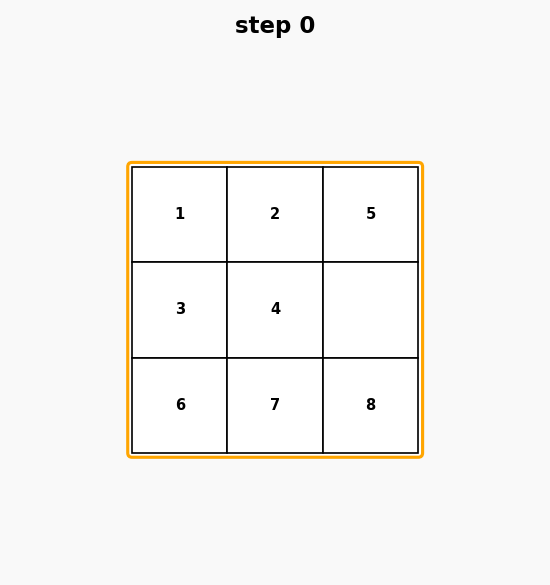
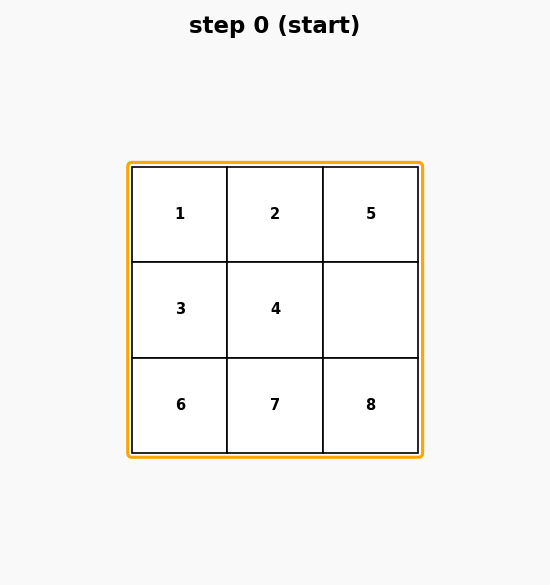
result report

Changed region(s): [[0.34, 0.0308, 0.6491, 0.0615]]

diff --git a/algorithms/algorithms.py b/algorithms/algorithms.py
@@ -4,6 +4,8 @@ from algorithms.data_structures import queue, stack, priority_queue
 from board import board_8_puzzle
 from algorithms.state import board_state
 from visualizer.tree_drawer import tree_drawer
+from time import time
+
 
 class algorithms:
     def __init__(self, puzzle: board_8_puzzle):
@@ -12,12 +14,34 @@ class algorithms:
     @dataclass
     class result:
         explored: set
-        frontier: set
         start_state: board_state
         goal_state: board_state|None
-        goal_path: list[board_state]|None
+        time_taken: float
 
-    def bfs(self, visual_output:bool) -> algorithms.result|None:
+        def save_report(self, out_file="report.txt"):
+            if not self.goal_state:
+                print(f"Time taken: {self.time_taken:.4f} seconds\n")
+                print(f"Number of states explored: {len(self.explored)}\n")
+                print("No solution found.\n")
+                return 
+
+            goal_path: list[board_state] = self.goal_state.get_path()
+            cost_of_path: int = self.goal_state.level
+            search_depth: int = max(state.level for state in self.explored)
+            print(f"Time taken: {self.time_taken:.4f} seconds\n")
+            print(f"Number of states explored: {len(self.explored)}\n")
+            print(f"Cost of path: {cost_of_path}\n")
+            print(f"Search depth: {search_depth}\n")
+            print("Path to solution:\n")
+            for step, state in enumerate(goal_path):
+                print(f"Step {step}:\n{state.board}\n")
+
+
+    def bfs(self, visual_output:bool) -> algorithms.result:
+        if visual_output:
+            visualizer_input_list: list[tuple[set, set, str, str]] = []
+
+        start_time = time()
         start = board_state(self._puzzle, None, False)
         explored = set()
         frontier = queue()
@@ -28,8 +52,7 @@ class algorithms:
         search_frontier.add(start)
         if visual_output:
             counter = 0
-            visualizer = tree_drawer()
-            visualizer.draw(explored, search_frontier, title=f"step {counter}", out_file=f"output/{counter}.png")
+            visualizer_input_list.append((explored.copy(), search_frontier.copy(), f"step {counter} (start)", f"output/{counter}.png")) # type: ignore
             counter+=1
 
         while not frontier.is_empty():
@@ -38,9 +61,14 @@ class algorithms:
             search_frontier.remove(state)
 
             if state.is_goal():
+                time_taken = time() - start_time
                 if visual_output:
-                    visualizer.draw(explored, search_frontier, final_state=state, title=f"step {counter} (goal)", out_file=f"output/{counter}.png") # type: ignore
-                return algorithms.result(explored, search_frontier, start, state, state.get_path())
+                    drawer = tree_drawer()
+                    for input in visualizer_input_list: # type: ignore
+                        drawer.draw(input[0], input[1], None, title=input[2], out_file=input[3]) # type: ignore
+                    drawer.draw(explored.copy(), search_frontier.copy(), state, f"step {counter} (start)", f"output/{counter}.png") # type: ignore
+                
+                return self.result(explored, start, state, time_taken)
 
             for neighbor in state.neighbors:
                 if neighbor not in explored and neighbor not in search_frontier:
@@ -48,8 +76,8 @@ class algorithms:
                     search_frontier.add(neighbor)
 
             if visual_output:
-                visualizer.draw(explored, search_frontier, title=f"step {counter}", out_file=f"output/{counter}.png") #type: ignore
+                visualizer_input_list.append((explored.copy(), search_frontier.copy(), f"step {counter}", f"output/{counter}.png")) #type: ignore
                 counter += 1 # type: ignore
 
-        return None
+        return self.result(explored, start, None, time() - start_time)
     

diff --git a/visualizer/implement_visualizer/implement_visualizer.py b/visualizer/implement_visualizer/implement_visualizer.py
@@ -4,9 +4,6 @@ from collections import defaultdict
 
 from visualizer.implement_visualizer.adapter import tree_data
 
-LEVEL_HEIGHT = 1.4
-LEAF_SPACING = 1.1
-
 """
 - add heuristics if given
 - red for path
@@ -19,39 +16,11 @@ class tree_visualizer:
     CELL = 0.22          # size of one puzzle cell in figure units
     GRID = 3 * CELL      # full grid width/height
     HALF = GRID / 2
-
-    def __init__(self, level_height=1.4, leaf_spacing=1.1):
-        self._level_height = level_height
-        self._leaf_spacing = leaf_spacing
-
-    @property
-    def level_height(self) -> float:
-        return self._level_height
-
-    @level_height.setter
-    def level_height(self, value:float|None):
-        if value is None:
-            self._level_height = LEVEL_HEIGHT
-            return
-        if value <= 0:
-            raise ValueError("level_height must be positive.")
-        self._level_height:float = value
-
-    @property
-    def leaf_spacing(self) -> float:
-        return self._leaf_spacing
-
-    @leaf_spacing.setter
-    def leaf_spacing(self, value:float|None):
-        if value is None:
-            self._leaf_spacing = LEAF_SPACING
-            return
-        if value <= 0:
-            raise ValueError("leaf_spacing must be positive.")
-        self._leaf_spacing:float = value
+    LEVEL_HEIGHT = 1.4
+    LEAF_SPACING = 1.1        
 
     class tree_layout:
-        def __init__(self, tree: tree_data, level_height:float|None=LEVEL_HEIGHT, leaf_spacing:float|None=LEAF_SPACING):
+        def __init__(self, tree: tree_data, level_height:float, leaf_spacing:float):
             self.level_height:float|None = level_height
             self.leaf_spacing:float|None = leaf_spacing
 
@@ -171,7 +140,7 @@ class tree_visualizer:
 
     def render_tree(self, tree: tree_data, title="", out_file="tree.png"):
 
-        layout, (fig_w, fig_h) = self.tree_layout(tree, level_height=self.level_height, leaf_spacing=self.leaf_spacing).compute_layout()
+        layout, (fig_w, fig_h) = self.tree_layout(tree, level_height=self.LEVEL_HEIGHT, leaf_spacing=self.LEAF_SPACING).compute_layout()
         # compute_layout(tree, level_height=level_height, leaf_spacing=leaf_spacing)
 
         fig, ax = plt.subplots(figsize=(fig_w, fig_h))

diff --git a/test.py b/test.py
@@ -8,21 +8,14 @@ def test_bfs():
     solver = algorithms(board)
 
     result: algorithms.result|None = solver.bfs(False)
-    if result:
-        path = result.goal_path
-        print(f"explored {len(result.explored)} states")
-        print(f"Solved in {len(path) - 1} moves:\n") # type: ignore
-        for step, state in enumerate(path): # type: ignore
-            print(f"Step {step}:")
-            print(state.board)   # uses your __str__
-            print()
-    else:
-        print("No solution found.")
+    result.save_report("report.txt")
 
 def test_visuals():
     board = board_8_puzzle([[1,2,5], [3,4,0], [6,7,8]])
     solver = algorithms(board)
     result: algorithms.result|None = solver.bfs(True)
+    if result:
+        result.save_report("output/report.txt")
 
 if __name__ == "__main__":
     # test_bfs()
